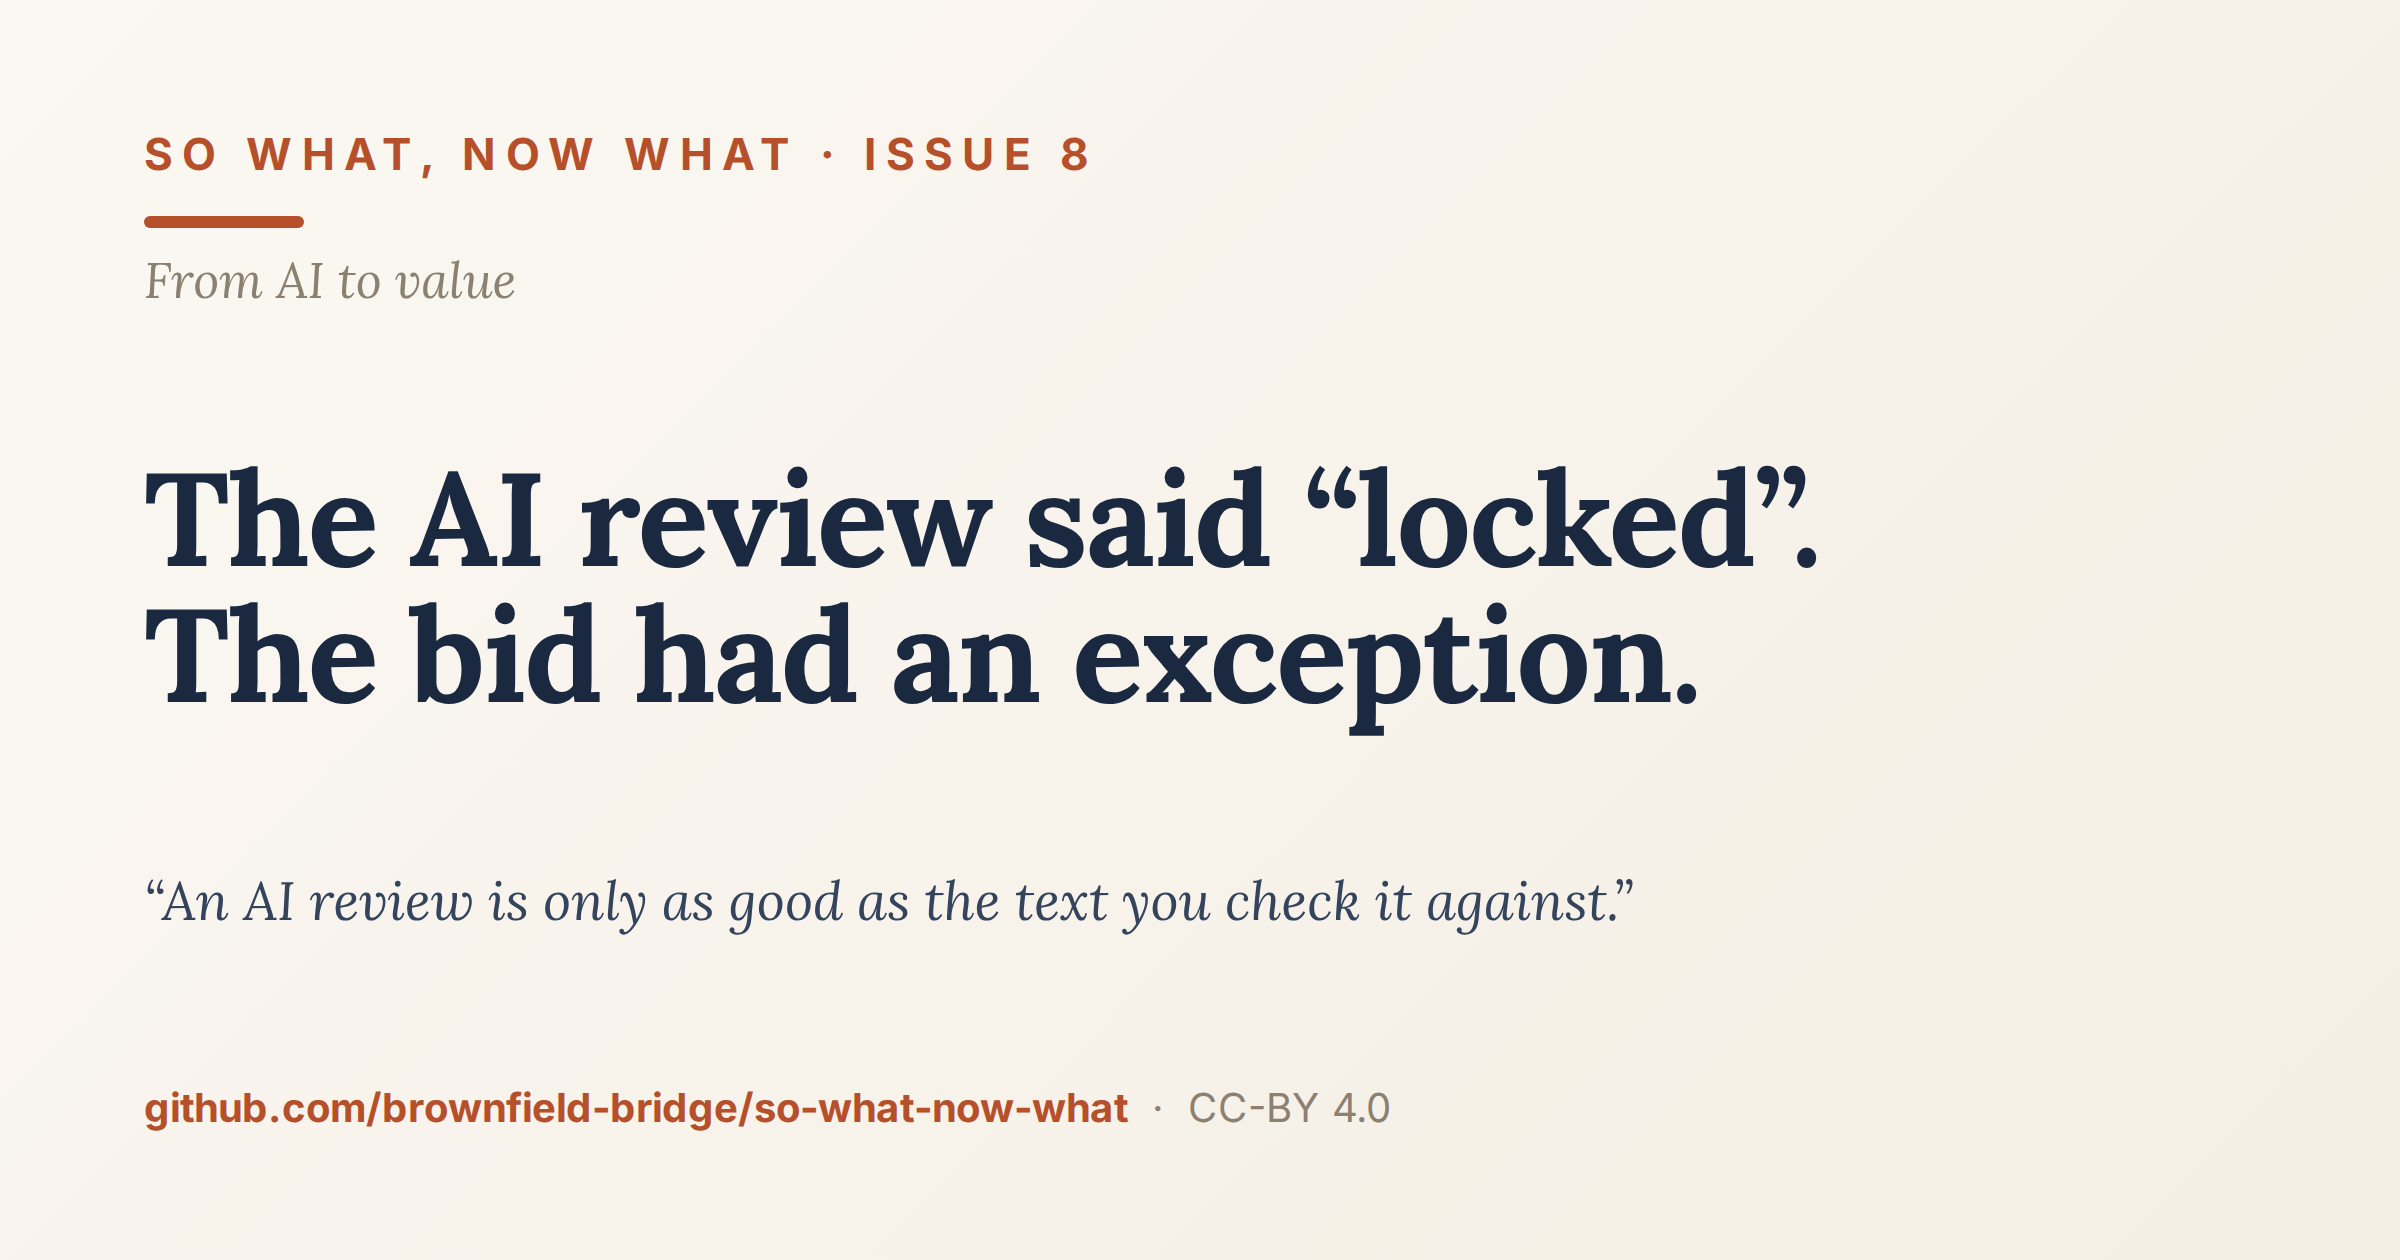
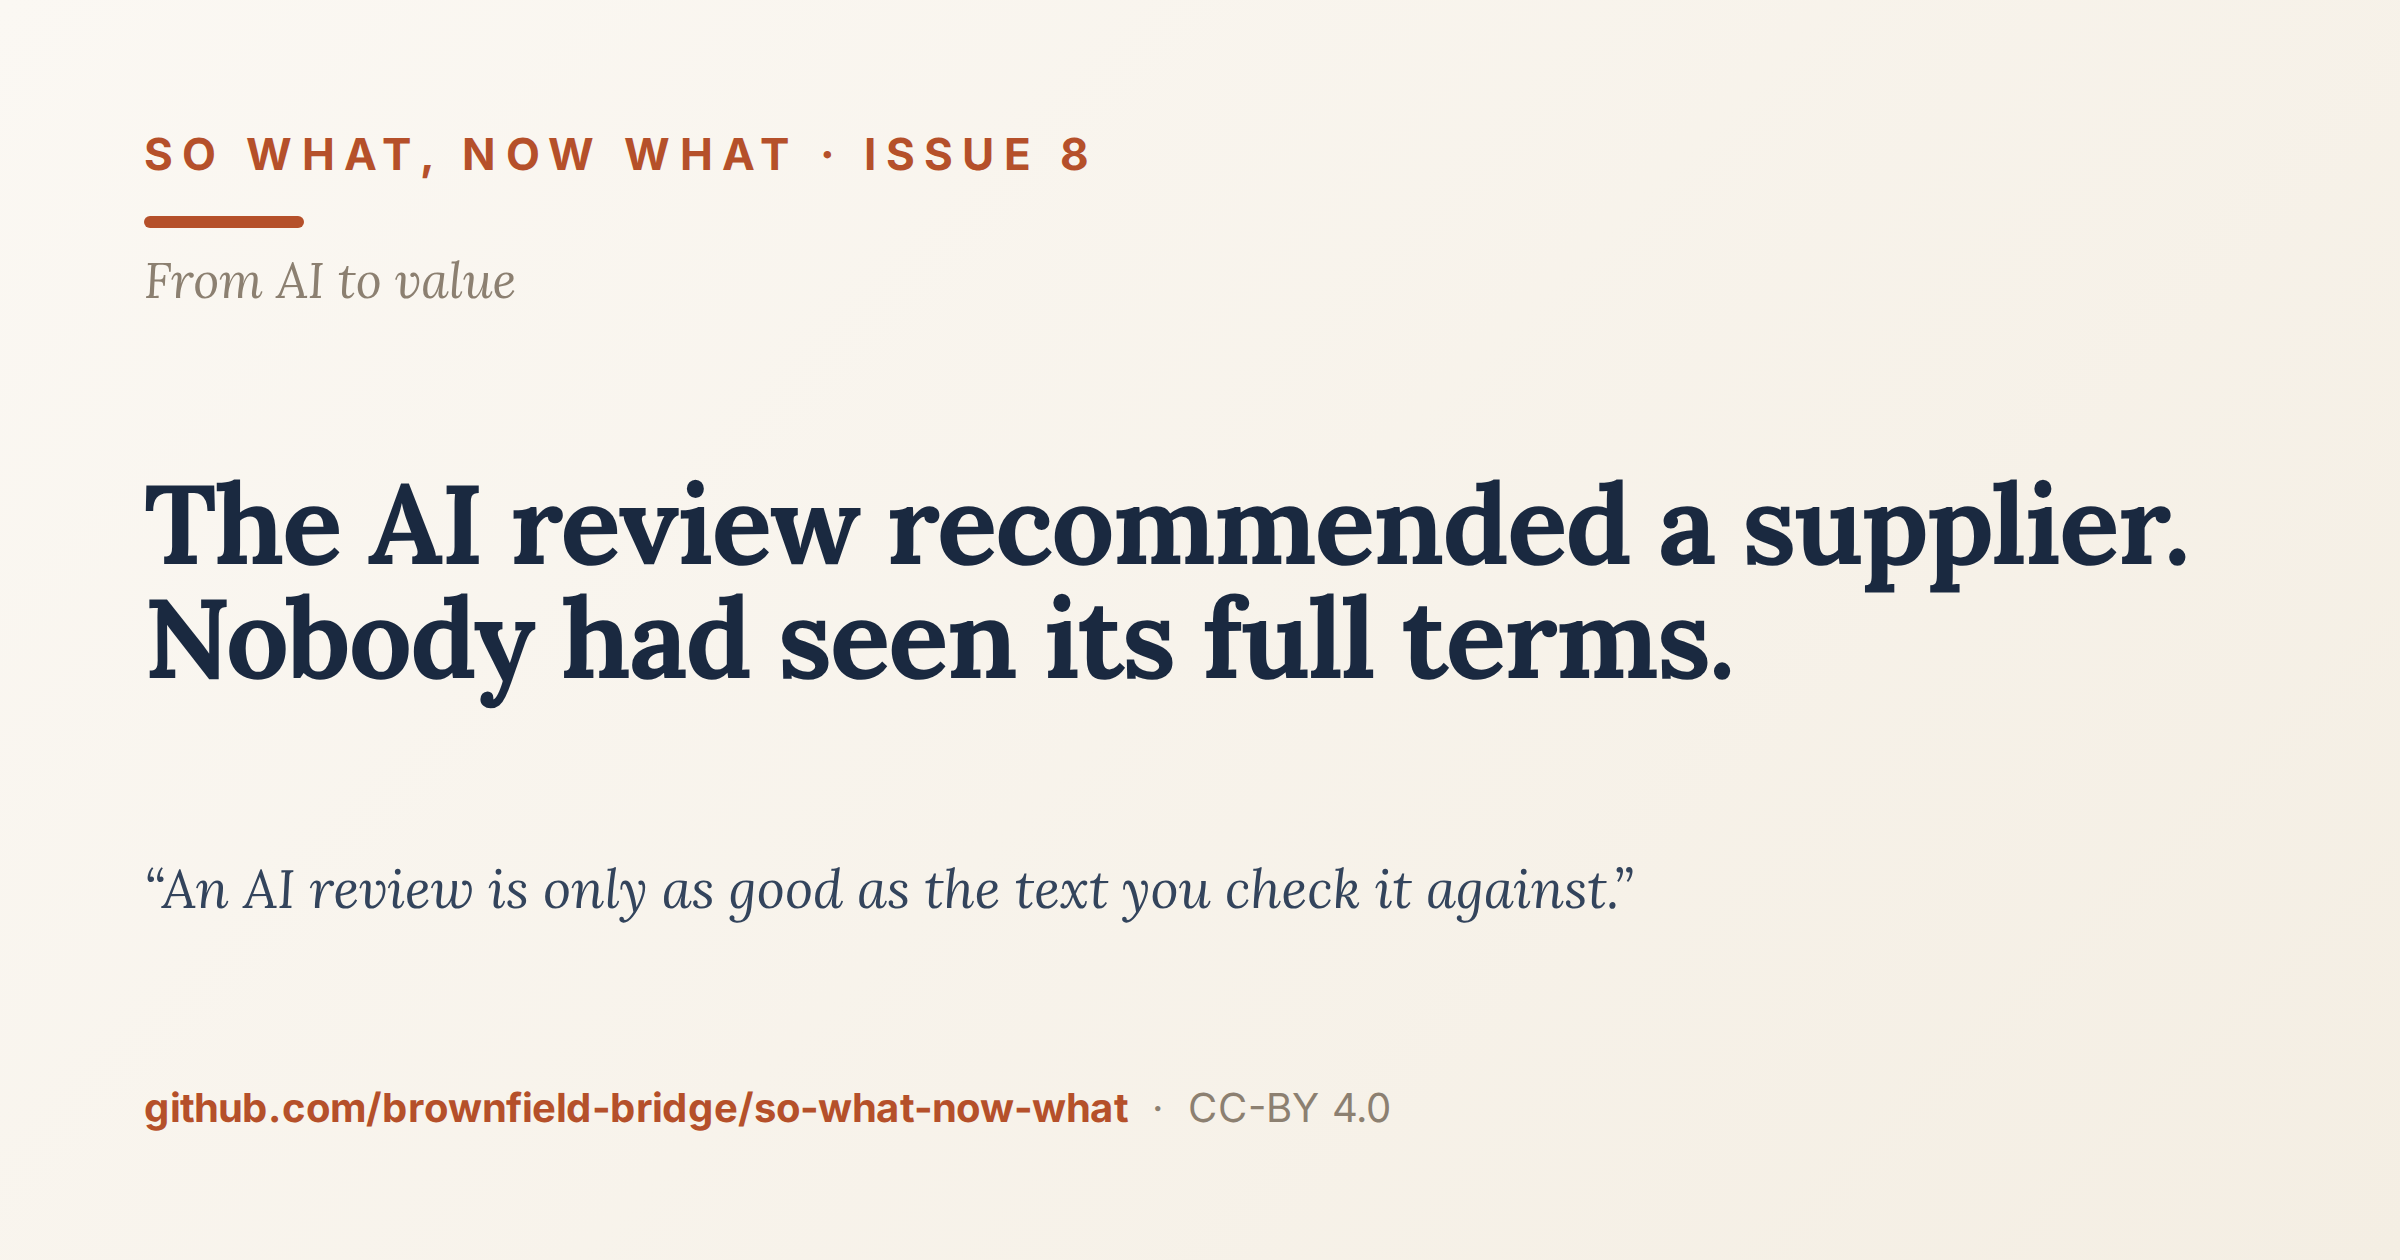
Add files via upload

Changed region(s): [[0.0625, 0.3714, 0.9062, 0.5881], [0.0625, 0.681, 0.6875, 0.7429]]

diff --git a/issues/08-the-tender-read/assets/01-review-vs-bid-terms.html b/issues/08-the-tender-read/assets/01-review-vs-bid-terms.html
@@ -1,0 +1,42 @@
+<!doctype html>
+<!-- So What, Now What - Issue 8, VISUAL 3. DESIGN.md section 4. 1600x820, render at 2x. All quotes exact:
+     review: vendor-review-run.md, "Contract terms supplied" row; request: bid-pack.md 4.3; bid: bid-pack.md B22. -->
+<html lang="en"><head><meta charset="utf-8"><link href="https://fonts.googleapis.com/css2?family=Lora:ital,wght@0,700;1,400&family=Inter:wght@400;600;700;800&display=swap" rel="stylesheet"><style>
+:root{--canvas:#FBF8F3;--canvas2:#F4EEE3;--card:#FFFFFF;--ink:#1A2940;--body:#33445C;--muted:#8C8071;--ember:#B5502A;--soft:#F7E7DC;--hair:#E7DCC9}
+*{box-sizing:border-box;margin:0}html,body{width:1600px;height:820px}
+.v{position:relative;width:1600px;height:820px;background:linear-gradient(135deg,var(--canvas),var(--canvas2));padding:70px 84px 0;font-family:Inter,system-ui,sans-serif;color:var(--ink)}
+.bar{position:absolute;top:0;left:0;right:0;height:9px;background:var(--ember)}
+.top{display:flex;justify-content:space-between;align-items:center}
+.eyebrow{font-size:19px;font-weight:700;letter-spacing:5px;text-transform:uppercase;color:var(--ember)}
+.chip{font-size:15px;font-weight:600;letter-spacing:3px;text-transform:uppercase;color:var(--muted);border:1px solid var(--hair);background:var(--card);padding:8px 14px;border-radius:6px}
+h1{font-family:Lora,Georgia,serif;font-weight:700;font-size:54px;letter-spacing:-.5px;margin:26px 0 44px}
+.cols{display:grid;grid-template-columns:1fr 1fr;gap:36px}
+.card{background:var(--card);border:1px solid var(--hair);border-radius:14px;padding:36px 40px 34px;box-shadow:0 6px 10px rgba(42,36,24,.07);height:390px;display:flex;flex-direction:column}
+.card.bid{border-left:6px solid var(--ember)}
+.lab{font-size:16px;font-weight:700;letter-spacing:4px;text-transform:uppercase;color:var(--muted)}
+.bid .lab{color:var(--ember)}
+.q{font-family:Lora,Georgia,serif;font-style:italic;color:var(--ink);margin-top:26px;flex:1}
+.review .q{font-size:52px;line-height:1.2}
+.q2{font-family:Lora,Georgia,serif;font-style:italic;font-size:33px;line-height:1.3;color:var(--ink);margin-top:12px}.bid .src{margin-top:auto}
+.x{font-style:italic;background:var(--soft);box-shadow:inset 0 -3px 0 var(--ember);padding:0 4px}
+.src{font-size:17px;color:var(--muted)}
+.sb{position:absolute;left:84px;right:84px;bottom:58px;height:96px;background:var(--ink);border-radius:12px;display:flex;align-items:center;padding:0 36px}
+.tick{width:6px;height:44px;background:var(--ember);border-radius:3px;margin-right:24px}
+.sb p{font-family:Lora,Georgia,serif;font-style:italic;font-size:34px;color:#FBF8F3}
+.foot{position:absolute;left:84px;bottom:22px;font-size:15px;color:var(--muted)}
+</style></head><body><div class="v"><div class="bar"></div>
+<div class="top"><div class="eyebrow">So What, Now What &middot; Issue 8</div><div class="chip">Fictional worked example</div></div>
+<h1>What the review said, and what the bids show</h1>
+<div class="cols">
+ <div class="card review"><div class="lab">The AI review &middot; recommended bidder</div>
+  <div class="q">&ldquo;Terms stated in the response&rdquo;</div>
+  <div class="src">/vendor-review, comparison table, &ldquo;Contract terms supplied&rdquo;</div></div>
+ <div class="card bid"><div class="lab">The request &middot; 4.3</div>
+  <div class="q2">&ldquo;Please state your standard contract terms.&rdquo;</div>
+  <div class="lab" style="margin-top:28px">The bid &middot; Clause B22</div>
+  <div class="q2">&ldquo;<span class="x">Hartlowe&rsquo;s terms</span> limit liability &hellip;&rdquo;</div>
+  <div class="src">Those terms were never supplied, and the review never asked for them.</div></div>
+</div>
+<div class="sb"><div class="tick"></div><p>The recommended supplier&rsquo;s full terms were never seen.</p></div>
+<div class="foot">Northvale and its four bidders are fictional. All quotes are exact, and the kit checks its quotes with a script.</div>
+</div></body></html>
